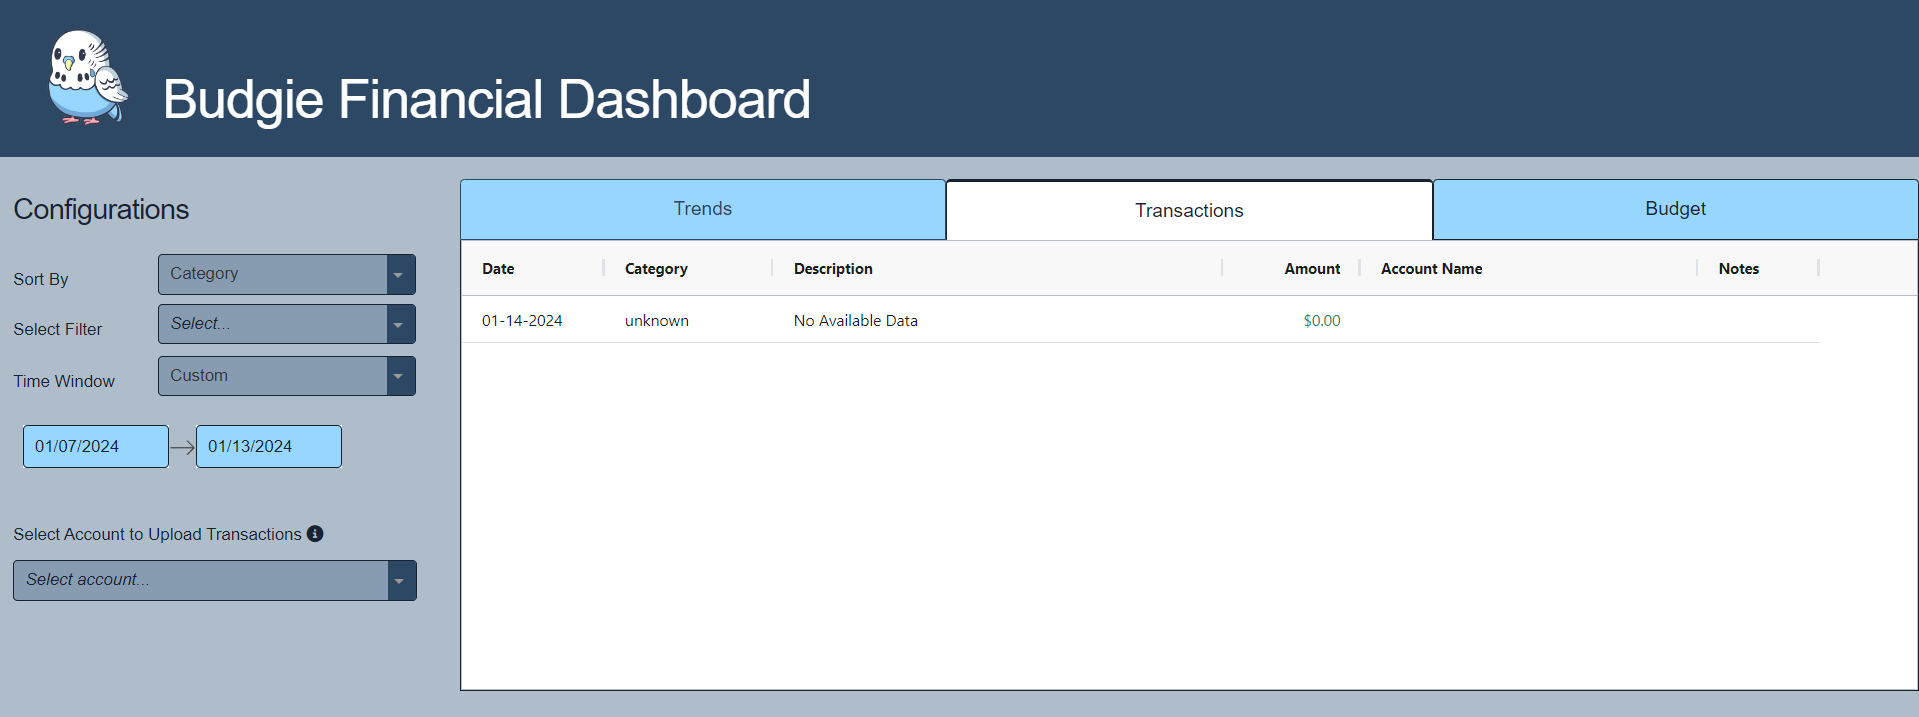
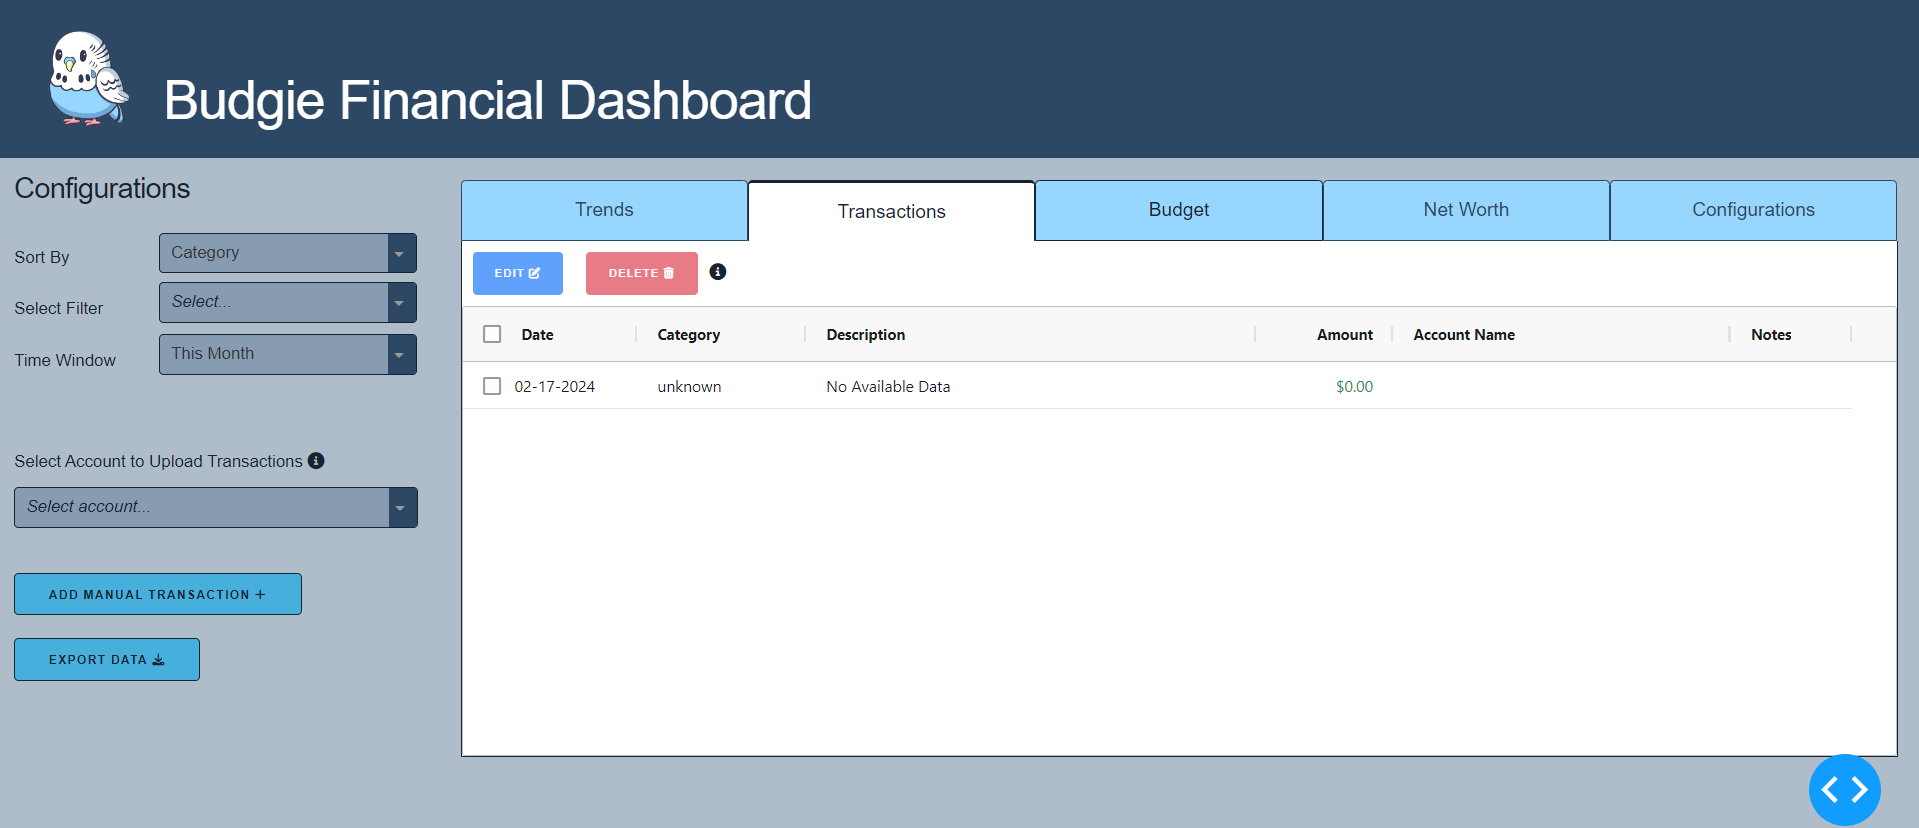
caught a lot of bugs with the csv file interface

diff --git a/src/components/maintain_transactions_csv.py b/src/components/maintain_transactions_csv.py
@@ -1,12 +1,10 @@
-from bson.objectid import ObjectId
-from datetime import datetime, timedelta
-from difflib import get_close_matches
+from datetime import datetime
 from dotenv import load_dotenv
-import numpy as np
 import os
 import pandas as pd
+import uuid
 
-from maintain_transactions import MaintainDatabase
+from maintain_transactions import MaintainDatabase, EMPTY_TRANSACTION
 
 
 class BudgieDF(pd.DataFrame):
@@ -17,19 +15,28 @@ class BudgieDF(pd.DataFrame):
             value_filter (dict):
         """
         if value_filter is None:
-            return self  # .get_data_list()
+            return self
         else:
-            if len(value_filter) == 1:
-                return BudgieDF(self[self[list(value_filter.keys())[0]] == list(value_filter.values())[0]])
-            elif len(value_filter) == 2:
-                return BudgieDF(self[(self[list(value_filter.keys())[0]] == list(value_filter.values())[0]) & (self[list(value_filter.keys())[1]] == list(value_filter.values())[1])])
+            try:  # First check for date filter
+                dates = value_filter.pop('date')
+                self = self[(self['date'] >= dates['$gte']) & (self['date'] <= dates['$lte'])]
+            except KeyError:
+                pass
+
+            try:  # General catch all if the filter criteria doesn't exist in the columns
+                if len(value_filter) == 1:
+                    return BudgieDF(self[self[list(value_filter.keys())[0]] == list(value_filter.values())[0]])
+                elif len(value_filter) == 2:
+                    return BudgieDF(self[(self[list(value_filter.keys())[0]] == list(value_filter.values())[0]) & (self[list(value_filter.keys())[1]] == list(value_filter.values())[1])])
+            except KeyError:
+                return BudgieDF()
 
     def distinct(self, value):
-        vals_list = list(self[value].unique())
+        try:
+            vals_list = list(self[value].unique())
+        except KeyError:
+            vals_list = []
         return sorted(vals_list)
-
-    def get_data_list(self):
-        return [item[1] for item in self.iterrows()]
 
     def sort(self, by):
         if isinstance(by, dict):
@@ -50,16 +57,49 @@ class MaintainCSV(MaintainDatabase):
     def load_initial_data(self):
         load_dotenv()
         self.file_dir = os.getenv("DATA_DIR")
-        self.transactions_table = BudgieDF(pd.read_csv(os.path.join(self.file_dir, 'transactions.csv')))
-        self.transactions_table['date'] = pd.to_datetime(self.transactions_table['date'])
-        self.budget_table = BudgieDF(pd.read_csv(os.path.join(self.file_dir, 'budget.csv')))
-        self.accounts_table = BudgieDF(pd.read_csv(os.path.join(self.file_dir, 'accounts.csv')))
+
+        try:
+            self.transactions_table = BudgieDF(pd.read_csv(os.path.join(self.file_dir, 'transactions.csv')))
+            self.transactions_table['date'] = pd.to_datetime(self.transactions_table['date'])
+        except FileNotFoundError:
+            self.transactions_table = BudgieDF(EMPTY_TRANSACTION)
+
+        try:
+            self.budget_table = BudgieDF(pd.read_csv(os.path.join(self.file_dir, 'budget.csv')))
+        except FileNotFoundError:
+            self.budget_table = BudgieDF()
+
+        try:
+            self.accounts_table = BudgieDF(pd.read_csv(os.path.join(self.file_dir, 'accounts.csv')))
+        except FileNotFoundError:
+            self.accounts_table = BudgieDF()
+
+        try:
+            self.categories_table = BudgieDF(pd.read_csv(os.path.join(self.file_dir, 'categories.csv')))
+        except FileNotFoundError:
+            self.categories_table = BudgieDF()
+
+    def load_transactions(self, sheet, account=None):
+        """Import transaction CSV and save many transactions to dataframe"""
+        transaction_list = self._add_transactions(sheet, account)
+        for trans in transaction_list:
+            trans['_id'] = str(uuid.uuid4())
+
+        # Insert transactions into database
+        if len(transaction_list) > 0:
+            if len(self.transactions_table) == 1:  # don't let it include the EMPTY_TRANSACTIONS item in the actual data
+                self.transactions_table = BudgieDF(pd.DataFrame(transaction_list))
+            else:
+                self.transactions_table = BudgieDF(pd.concat([self.transactions_table, pd.DataFrame(transaction_list)]))
+        return len(transaction_list)
 
     def export_data_to_csv(self):
         """Save all data files to a CSV"""
-        self.transactions_table.to_csv(os.path.join(self.file_dir, 'transactions.csv'), index=False)
-        self.budget_table.to_csv(os.path.join(self.file_dir, 'budget.csv'), index=False)
-        self.accounts_table.to_csv(os.path.join(self.file_dir, 'accounts.csv'), index=False)
+        tables = [self.transactions_table, self.budget_table, self.accounts_table, self.categories_table]
+        file_names = ['transactions.csv', 'budget.csv', 'accounts.csv', 'categories.csv']
+        for i in range(4):
+            if len(tables[i]) > 0:
+                tables[i].to_csv(os.path.join(self.file_dir, file_names[i]), index=False)
 
     def add_one_transaction(self, category, amount, t_date, description, account, note):
         """Add a single manual transaction to the dataframe"""
@@ -67,7 +107,6 @@ class MaintainCSV(MaintainDatabase):
                        'category': [category],
                        'description': [description],
                        'amount': [amount],
-                       'currency': ['USD'],
                        'original description': [description],
                        'account name': [account],
                        'notes': [note]}
@@ -97,7 +136,7 @@ class MaintainCSV(MaintainDatabase):
             transactions = transactions[transactions[conf_dict['field_filter'].lower()].isin(conf_dict['filter_value'])]
 
         if len(transactions) == 0:
-            transactions = self.empty_transaction
+            transactions = EMPTY_TRANSACTION
 
         return transactions
 
@@ -133,11 +172,17 @@ class MaintainCSV(MaintainDatabase):
 
     def add_budget_item(self, category, value):
         """Add new budget item in dataframe with category and monthly value"""
-        existing = self.budget_table[self.budget_table['category'] == category]
+        try:  # Check for when there's no budget items yet
+            existing = self.budget_table[self.budget_table['category'] == category]
+        except KeyError:
+            existing = []
+
         if len(existing) == 1:
             self.budget_table.loc[existing.index, 'value'] = value
         else:
-            self.budget_table = BudgieDF(pd.concat([self.budget_table, pd.DataFrame({'category': [category], 'value': [value]})]))
+            self.budget_table = BudgieDF(pd.concat([self.budget_table, pd.DataFrame({'category': [category],
+                                                                                     'value': [value],
+                                                                                     '_id': uuid.uuid4()})], ignore_index=True))
 
     def rm_budget_item(self, category, value):
         """Delete budget item in dataframe"""
@@ -146,11 +191,28 @@ class MaintainCSV(MaintainDatabase):
 
     def add_account(self, account_name, status='open', initial_balance=0):
         """Add new account in dataframe with current status and beginning balance for net worth"""
-        self.accounts_table = BudgieDF(pd.concat([self.accounts_table, pd.DataFrame({'account name': [account_name], 'status': [status], 'initial balance': [initial_balance]})]))
+        self.accounts_table = BudgieDF(pd.concat([self.accounts_table, pd.DataFrame({'account name': [account_name],
+                                                                                     'status': [status],
+                                                                                     'initial balance': [initial_balance],
+                                                                                     '_id': uuid.uuid4()})], ignore_index=True))
 
-    def export_data_to_csv(self, root_dir=''):
-        for coll in [self.transactions_table, self.budget_table, self.accounts_table]:
-            coll.to_csv(coll.name + '.csv', index=False)
+    def delete_account(self, row_data):
+        """Delete account in database"""
+        rm_i = self.accounts_table[(self.accounts_table['_id'] == row_data['_id'])].index
+        self.accounts_table = BudgieDF(self.accounts_table.drop(rm_i))
+
+    def add_category(self, category_name, category_parent=None):
+        """Add new category in dataframe"""
+        self.categories_table = BudgieDF(pd.concat([self.categories_table, pd.DataFrame({'parent': [category_parent],
+                                                                                         'category name': [category_name],
+                                                                                         '_id': uuid.uuid4()})], ignore_index=True))
+
+    def delete_category(self, row_data):
+        """Delete category in database"""
+        for row in row_data:
+            if row['parent'] == '':
+                row['parent'] = None
+            return self.categories_table.delete_one(row)
 
 
 if __name__ == '__main__':

diff --git a/src/components/maintain_transactions.py b/src/components/maintain_transactions.py
@@ -12,16 +12,19 @@ BUDGET_CLIENT = 'budget'
 ACCOUNTS_CLIENT = 'accounts'
 CATEGORIES_CLIENT = 'categories'
 
+EMPTY_TRANSACTION = pd.DataFrame.from_dict({'_id': ['None'], 'date': [datetime.today()], 'category': ['unknown'], 'description': ['No Available Data'],
+                                            'amount': [0], 'account name': ['None'], 'notes': ['None']})
+
 
 class MaintainDatabase:
     def __init__(self):
         self.transactions_table = None
         self.budget_table = None
         self.accounts_table = None
-        self.load_initial_data()
+        self.categories_table = None
         self.autocategories = None
-        self.empty_transaction = pd.DataFrame.from_dict({'_id': [''], 'date': [datetime.today()], 'category': ['unknown'], 'description': ['No Available Data'],
-                                                         'amount': [0], 'account name': [''], 'notes': ['']})
+
+        self.load_initial_data()
 
     def load_initial_data(self):
         load_dotenv()
@@ -32,7 +35,16 @@ class MaintainDatabase:
         self.accounts_table = client[ACCOUNTS_CLIENT]
         self.categories_table = client[CATEGORIES_CLIENT]
 
-    def add_transactions(self, sheet, account=None):
+    def load_transactions(self, sheet, account=None):
+        """Import transaction CSV and write many transactions to database"""
+        transaction_list = self._add_transactions(sheet, account)
+
+        # Insert transactions into database
+        if len(transaction_list) > 0:
+            self.transactions_table.insert_many(transaction_list)
+        return len(transaction_list)
+
+    def _add_transactions(self, sheet, account=None):
         """Add transactions to a database, ensuring duplicates are not added, and taking special care with Venmo transactions"""
         if isinstance(sheet, str):
             df = pd.read_csv(sheet)
@@ -154,13 +166,7 @@ class MaintainDatabase:
                 # There's no match, so get the category and add the transaction
                 transaction_list.append(self._make_transaction_dict(row, self._autocategorize(row), account))
 
-        # Insert transactions into database
-        if len(transaction_list) > 0:
-            if isinstance(self.transactions_table, pd.DataFrame):
-                self.transactions_table = pd.concat([self.transactions_table, pd.DataFrame(transaction_list)])
-            else:
-                self.transactions_table.insert_many(transaction_list)
-        return len(transaction_list)
+        return transaction_list
 
     def add_one_transaction(self, category, amount, t_date, description, account, note):
         """Add a single manual transaction to the database"""
@@ -168,7 +174,6 @@ class MaintainDatabase:
                        'category': category,
                        'description': description,
                        'amount': amount,
-                       'currency': 'USD',
                        'original description': description,
                        'account name': account,
                        'notes': note}
@@ -181,7 +186,6 @@ class MaintainDatabase:
                                'category': category,
                                'description': td['description'],
                                'amount': td['amount'],
-                               'currency': 'USD',
                                'original description': td['original description'],
                                'account name': account,
                                'notes': td.get('notes')}
@@ -230,7 +234,7 @@ class MaintainDatabase:
                 '$lte': datetime.strptime(conf_dict['end_date'], '%Y-%m-%d')},
             **mongo_filter}))
         if len(transactions) == 0:
-            transactions = self.empty_transaction
+            transactions = EMPTY_TRANSACTION
 
         return transactions
 

diff --git a/src/components/budget_tab.py b/src/components/budget_tab.py
@@ -129,11 +129,14 @@ def toggle_budget_modal(open_modal, cancel, submit, budget_category, budget_valu
     if trigger in ['new-budget-button.n_clicks', 'budget-category-dropdown.value']:
         if budget_category is not None:
             if isinstance(MD.budget_table, pd.DataFrame):
-                bv = MD.budget_table.get_data_list()
+                bv = MD.budget_table.find({'category': budget_category})
             else:
                 bv = list(MD.budget_table.find({'category': budget_category}))
             if len(bv) > 0:
-                budget_value = budget_value if trigger == 'budget-value-input.value' else bv[0]['value']
+                try:
+                    budget_value = budget_value if trigger == 'budget-value-input.value' else bv[0]['value']
+                except KeyError:
+                    budget_value = budget_value if trigger == 'budget-value-input.value' else bv.iloc[0]['value']
                 delete = {'float': 'right'}
                 avg_style = {'padding': '0 0 25px 0'}
             else:

diff --git a/src/components/net_worth_tab.py b/src/components/net_worth_tab.py
@@ -20,7 +20,11 @@ def make_net_worth_plot(conf_dict):
     all_time_config = zero_params_dict()
     all_time_config['start_date'] = '2000-01-01'
     transactions = MD.query_transactions(all_time_config)
-    transactions = transactions.drop(transactions[(transactions['account name'] == 'Venmo') & (transactions.notes.str.contains('Source'))].index)
+
+    try:  # Drop Venmo transactions that are actually a transfer from another account
+        transactions = transactions.drop(transactions[(transactions['account name'] == 'Venmo') & (transactions.notes.str.contains('Source'))].index)
+    except AttributeError:
+        pass
 
     if len(transactions) == 0 or transactions.iloc[0].description == 'No Available Data':
         fig_obj = go.Figure()

diff --git a/src/components/utils.py b/src/components/utils.py
@@ -6,7 +6,7 @@ from maintain_transactions import MaintainDatabase
 from maintain_transactions_csv import MaintainCSV
 
 EXCLUDE_FROM_BUDGET = ['Transfer', 'Credit Card Payment']
-EXCLUDE_FROM_TABLE = ['_id', 'original description', 'currency']
+EXCLUDE_FROM_TABLE = ['_id', 'original description']
 
 COLORS = {
     'light': {
@@ -74,6 +74,11 @@ def get_accounts_list(extra=''):
         acc_list.extend(['Add new account...'])
     else:
         acc_list.extend(MD.transactions_table.find().distinct('account name'))
+
+    try:  # Quick check for when there's actually no accounts available
+        acc_list.remove('None')
+    except ValueError:
+        pass
     return acc_list
 
 

diff --git a/src/components/transaction_tab.py b/src/components/transaction_tab.py
@@ -230,8 +230,12 @@ def bulk_update_table(edit_button, delete_button, row_data, cancel, submit, cate
                 for key, val in update_dict.items():
                     r[key] = val
             MD.edit_many_transactions(row_data)
+
             if new_account:
                 MD.add_account(new_account)
+            if new_category:
+                MD.add_category(new_category)
+
             category = None
             new_category = None
             amount = None

diff --git a/src/components/configurations_sidebar.py b/src/components/configurations_sidebar.py
@@ -360,7 +360,7 @@ def parse_upload_transaction_file(account, loaded_file, new_account):
                 msg.append(html.Br())
                 continue
 
-            results = MD.add_transactions(m, account)
+            results = MD.load_transactions(m, account)
             if new_account:
                 MD.add_account(new_account)
             if isinstance(results, int):

diff --git a/README.md b/README.md
@@ -6,10 +6,10 @@ Process your bank transactions in a locally-hosted database or set of CSV files 
 
 ![app screenshot](/src/assets/screenshot.PNG)
 
-## Usage
+## Getting Started
 There are two ways to store data for Budgie: a Mongo database or a set of CSV files.
 
-Note: I've not tested the limit of how large the CSV file can be, so you may experience slower performance if you have a large number of transactions (i.e. 10s of thousands of transactions).
+Note: I've not tested the limit of how large the CSV file can be, so you may experience slower performance if you have a large number of transactions (i.e. tens of thousands of transactions).
 
 ### Mongo Database
 Instantiate a Mongo database and store the information in a `.env` file in the top level of this repository following the template
@@ -41,12 +41,8 @@ Create a new folder to hold your CSV data, and store the path in a `.env` file i
 When you add new transactions or update your budget, Budgie will automatically rewrite the CSV with the new data. 
 Alternatively, you can click the "Save" button in the header to manually export your data.
 
-### Special note about Venmo
-Venmo allows you to spend either from your Venmo account balance, or from a third party account. To denote when these transactions are from an alternative source, it should be marked in the 
-transaction notes as "Source: [source information]" in order to properly calculate your net worth. 
 
-
-## More Basic Getting Started
+## Getting Started with Python and MongoDB
 
 #### Getting Python 
 My preference of IDE and package manager is [PyCharm Community](https://www.jetbrains.com/pycharm/download/?section=windows) 
@@ -87,4 +83,10 @@ It should go without saying, but please do not commit any personal information i
 
 ## Troubleshooting
 
-If your bank's CSV fails to be uploaded, make an issue that includes the header of the CSV.
+### CSV file upload fails
+If your bank's CSV fails to be uploaded, make an issue that includes the header of the CSV and a line of a representative credit (+) and debit (-) to the account.
+
+### Special note about Venmo
+Venmo allows you to spend either from your Venmo account balance, or from a third party account. To denote when these transactions are from an alternative source, it should be marked in the 
+transaction notes as "Source: [source information]" in order to properly calculate your net worth. 
+
